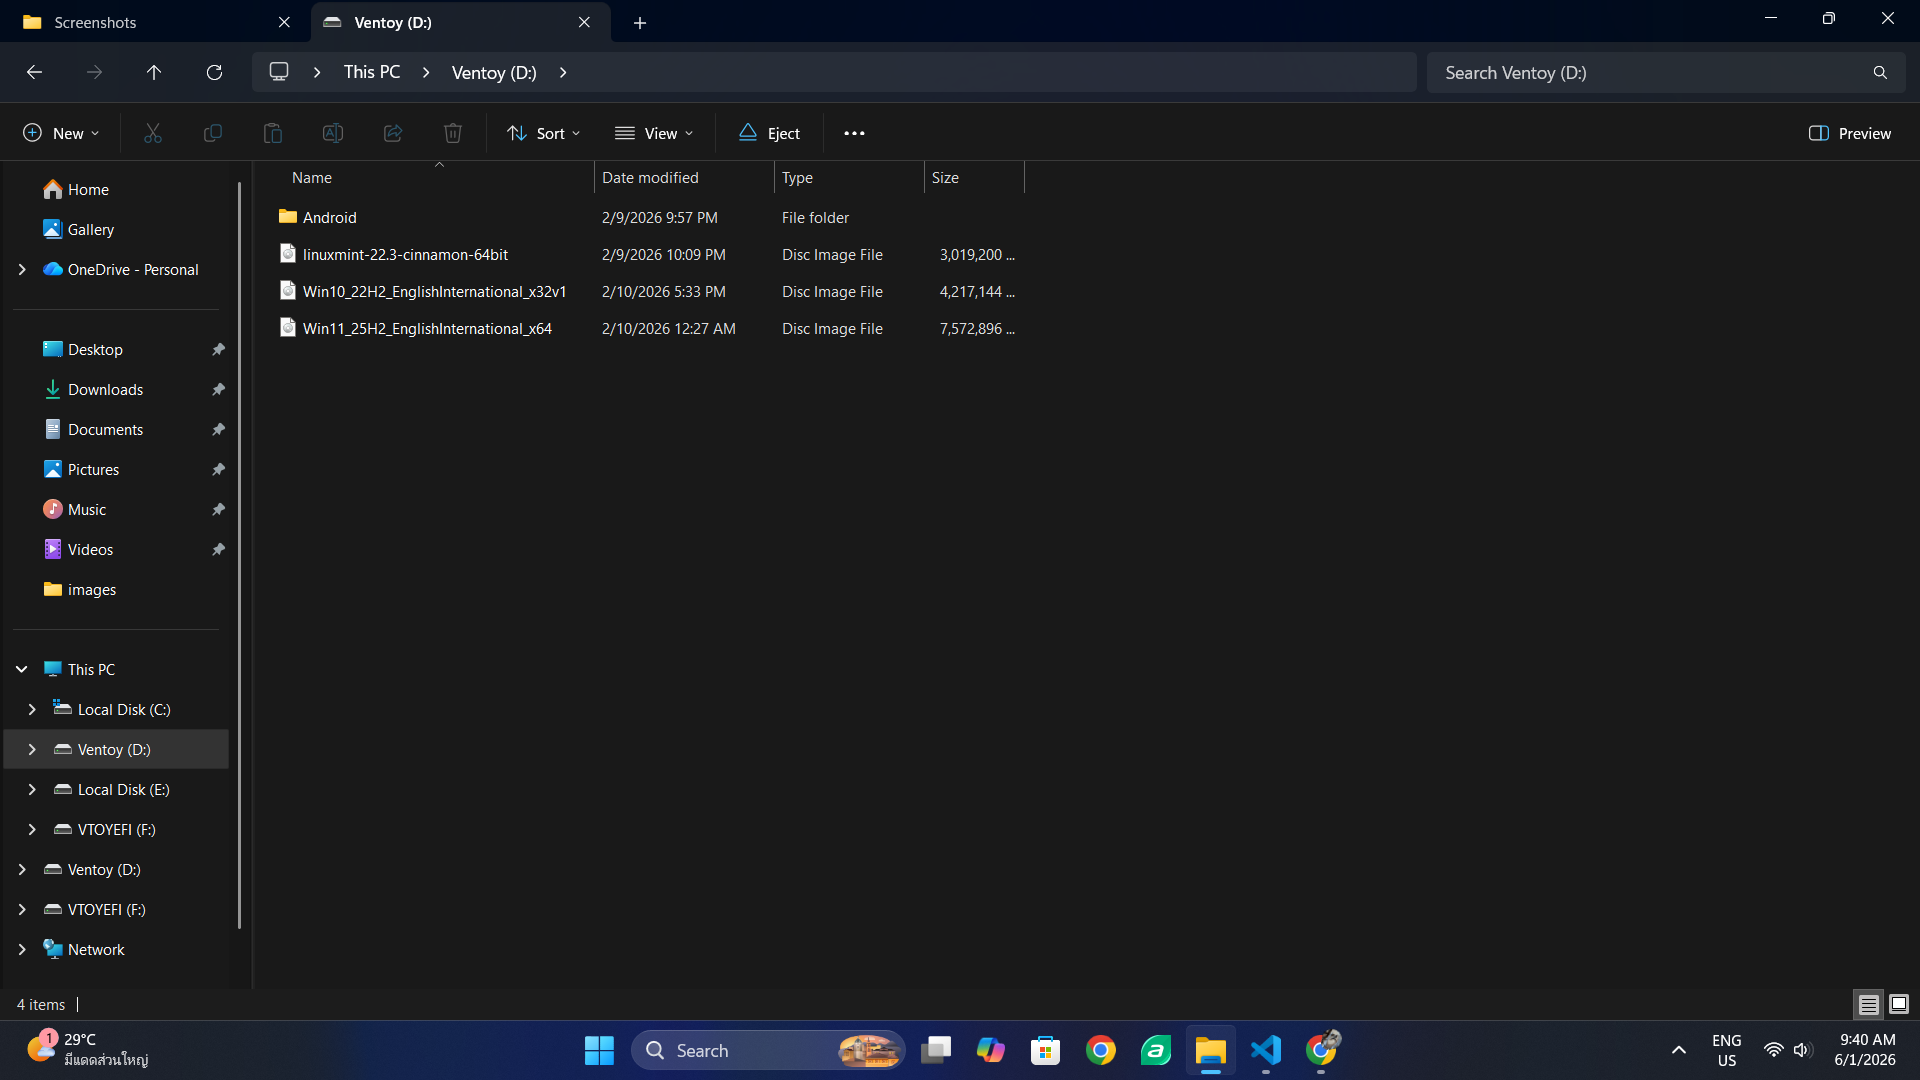
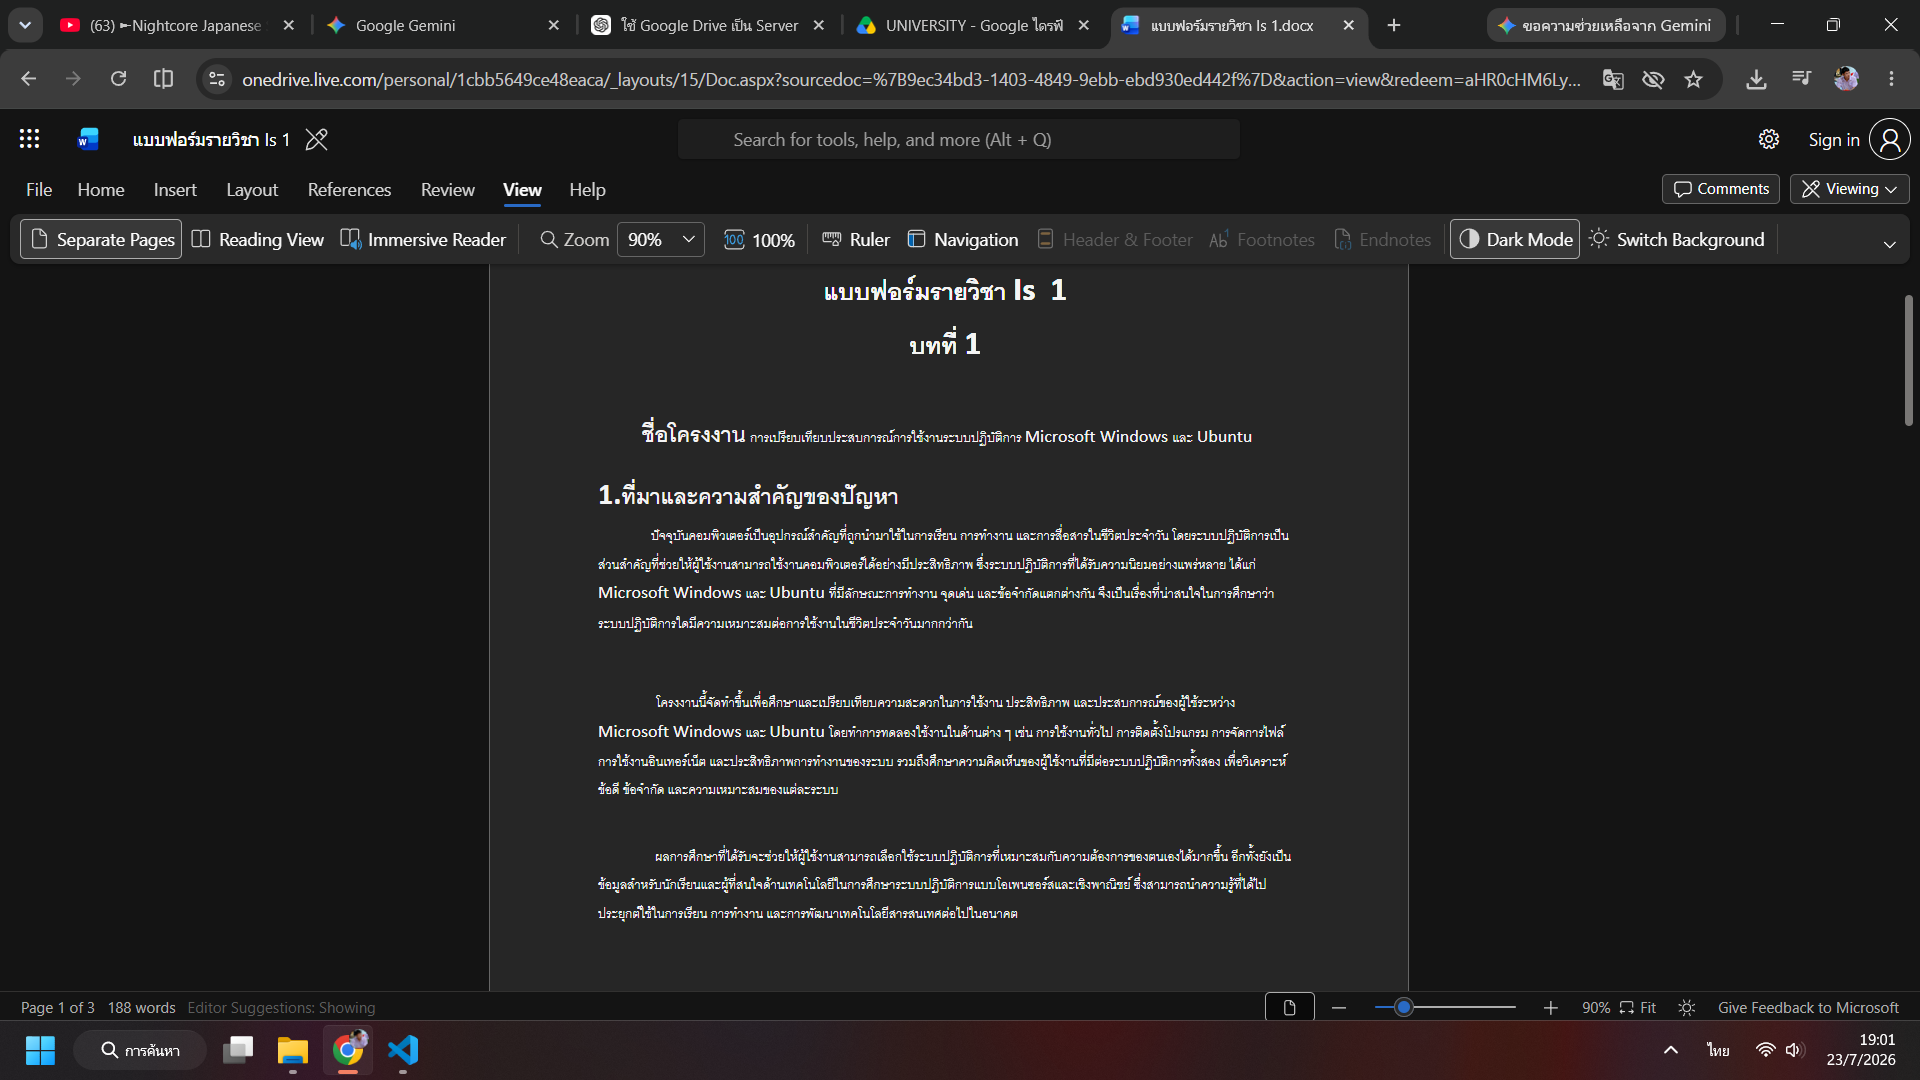
update website

diff --git a/index.html b/index.html
@@ -76,7 +76,7 @@
                         รวมถึงการศึกษาระบบปฏิบัติการและเทคโนโลยี IoT เพื่อประยุกต์ใช้ในการแก้ปัญหาในชีวิตจริง
                         มุ่งมั่นพัฒนาตนเองอย่างต่อเนื่องผ่านการเรียนรู้ การแข่งขัน และการเข้าร่วมกิจกรรมต่าง ๆ
                         เพื่อเตรียมความพร้อมสู่การศึกษาต่อในระดับมหาวิทยาลัยด้านเทคโนโลยีสารสนเทศ
-                        ผู้มีความสนใจด้านเทคโนโลยี วิทยาการคอมพิวเตอร์ และการพัฒนาซอฟต์แวร์</p>
+                        ผู้มีความสนใจด้านเทคโนโลยีสารสนเทศ วิทยาการคอมพิวเตอร์ และการพัฒนาซอฟต์แวร์</p>
         </div>
 
         <!-- ส่วนแสดงทักษะความสามารถแบบแถบหลอดระดับความสามารถ -->
@@ -233,10 +233,10 @@
                 <div class="card-project">
                     <button class="btn-img-project">อยู่ระหว่างการจัดทำ</button>
 
-                    <a href="#" style="text-decoration: none;">
+                    <a href="https://github.com/fumisaki-g/Portfolio" style="text-decoration: none;">
                                             <img src="assets/images/p-1.png" alt="" class="card-image-certificates">
                                             <div class="card-content-certificates">
-                                                <h2>สร้างเว็ปของตัวเอง</h2>
+                                                <h2>สร้างเว็บประชาสัมพันธ์ของตัวเอง</h2>
                                                 <p>พัฒนาเว็บไซต์ Portfolio ด้วยตนเองโดยใช้ HTML, CSS และ JavaScript
                                                     โดยศึกษาและออกแบบโครงสร้างเว็บไซต์ด้วยตนเอง
                                                     พร้อมประยุกต์ใช้เครื่องมือ AI เพื่อช่วยวางแนวทางการออกแบบและปรับปรุงประสบการณ์การใช้งานเพื่อรวบรวมผลงาน กิจกรรม และเกียรติบัตรสำหรับการศึกษาต่อ</p>
@@ -252,7 +252,7 @@
                 <div class="card-project">
 
                     <a href="https://1drv.ms/w/c/1cbb5649ce48eaca/IQDTS8OeAxRJSJ6769kw7UQvATUtkv9xCeCX6gATqOWs1pw?e=qExxbJ" style="text-decoration: none;">
-                        <button class="btn-img-project btn-status-blue">กำลังจัดทำ</button>
+                        <button class="btn-img-project btn-status-blue">กำลังอยู่ช่วงระยะเวลาการทดลอง</button>
                         <img src="assets/images/p-2.png" alt="" class="card-image-certificates">
                         <div class="card-content-certificates">
                             <h2>โครงงาน IS</h2>
@@ -269,12 +269,12 @@
             <div class="card-certificates-container">
                 <div class="card-project">
 
-                    <a href="" style="text-decoration: none;">
-                        <button class="btn-img-project btn-status-orange">อยู่ระหว่างการจัดหาอุปกรณ์</button>
+                    <a href="https://github.com/fumisaki-g/Portfolio/tree/main/assets/App" style="text-decoration: none;">
+                        <button class="btn-img-project btn-status-orange">อยู่ระหว่างการทดลอง</button>
                         <img src="assets/images/p-3.jpg" alt="" class="card-image-certificates">
                         <div class="card-content-certificates">
-                            <h2>ทำที่รูดม่านผ่านมือถือ IoT</h2>
-                            <p>พัฒนาอุปกรณ์ควบคุมม่านผ่านสมาร์ตโฟนโดยใช้เทคโนโลยี IoT และไมโครคอนโทรลเลอร์ ESP32 เพื่อศึกษาการเชื่อมต่ออุปกรณ์กับเครือข่ายอินเทอร์เน็ตและการควบคุมระยะไกล ผลงานนี้เป็นการต่อยอดจากกิจกรรมอบรมเชิงปฏิบัติการที่จัดโดยมหาวิทยาลัยราชภัฏนครสวรรค์ โดยผู้จัดทำได้ออกแบบวงจร เขียนโปรแกรม และทดลองใช้งานด้วยตนเอง</p>
+                            <h2>EARTH NOTE แอปพลิเคชัน</h2>
+                            <p>พัฒนาแอปพลิเคชันเพื่อเอาไว้ใช้จดบันทึกงาน ในรูปแบบที่ตัวเองต้องการ โดยมีหลายเวอร์ชั่น ทั้ง BETA และ เวอร์ชั่น ภาษาไทย อีกทั้งมีแนวคิดที่จะพัฒนาต่อไปจน นำขึ้น Google Play Store เป็นแอปพลิเคชันที่จดบันทึกและใช้งานได้จริง</p>
                         </div>
                         <div class="tag-project">
                             <p class="tag">[ESP32]</p>
@@ -713,7 +713,7 @@
 
                 <a href="#open-popup-home">หน้าแรก</a><br>
                 <a href="#certificates" class="footer-link">คลังผลงาน</a><br>
-                <a href="#" class="footer-alert-link">ประวัติส่วนตัว (เฉพาะกรรมการที่ดู Portfolio)</a>
+                <!-- <a href="#" class="footer-alert-link">ประวัติส่วนตัว (เฉพาะกรรมการที่ดู Portfolio)</a> -->
 
             </section>
             <section class="footer-contact">
